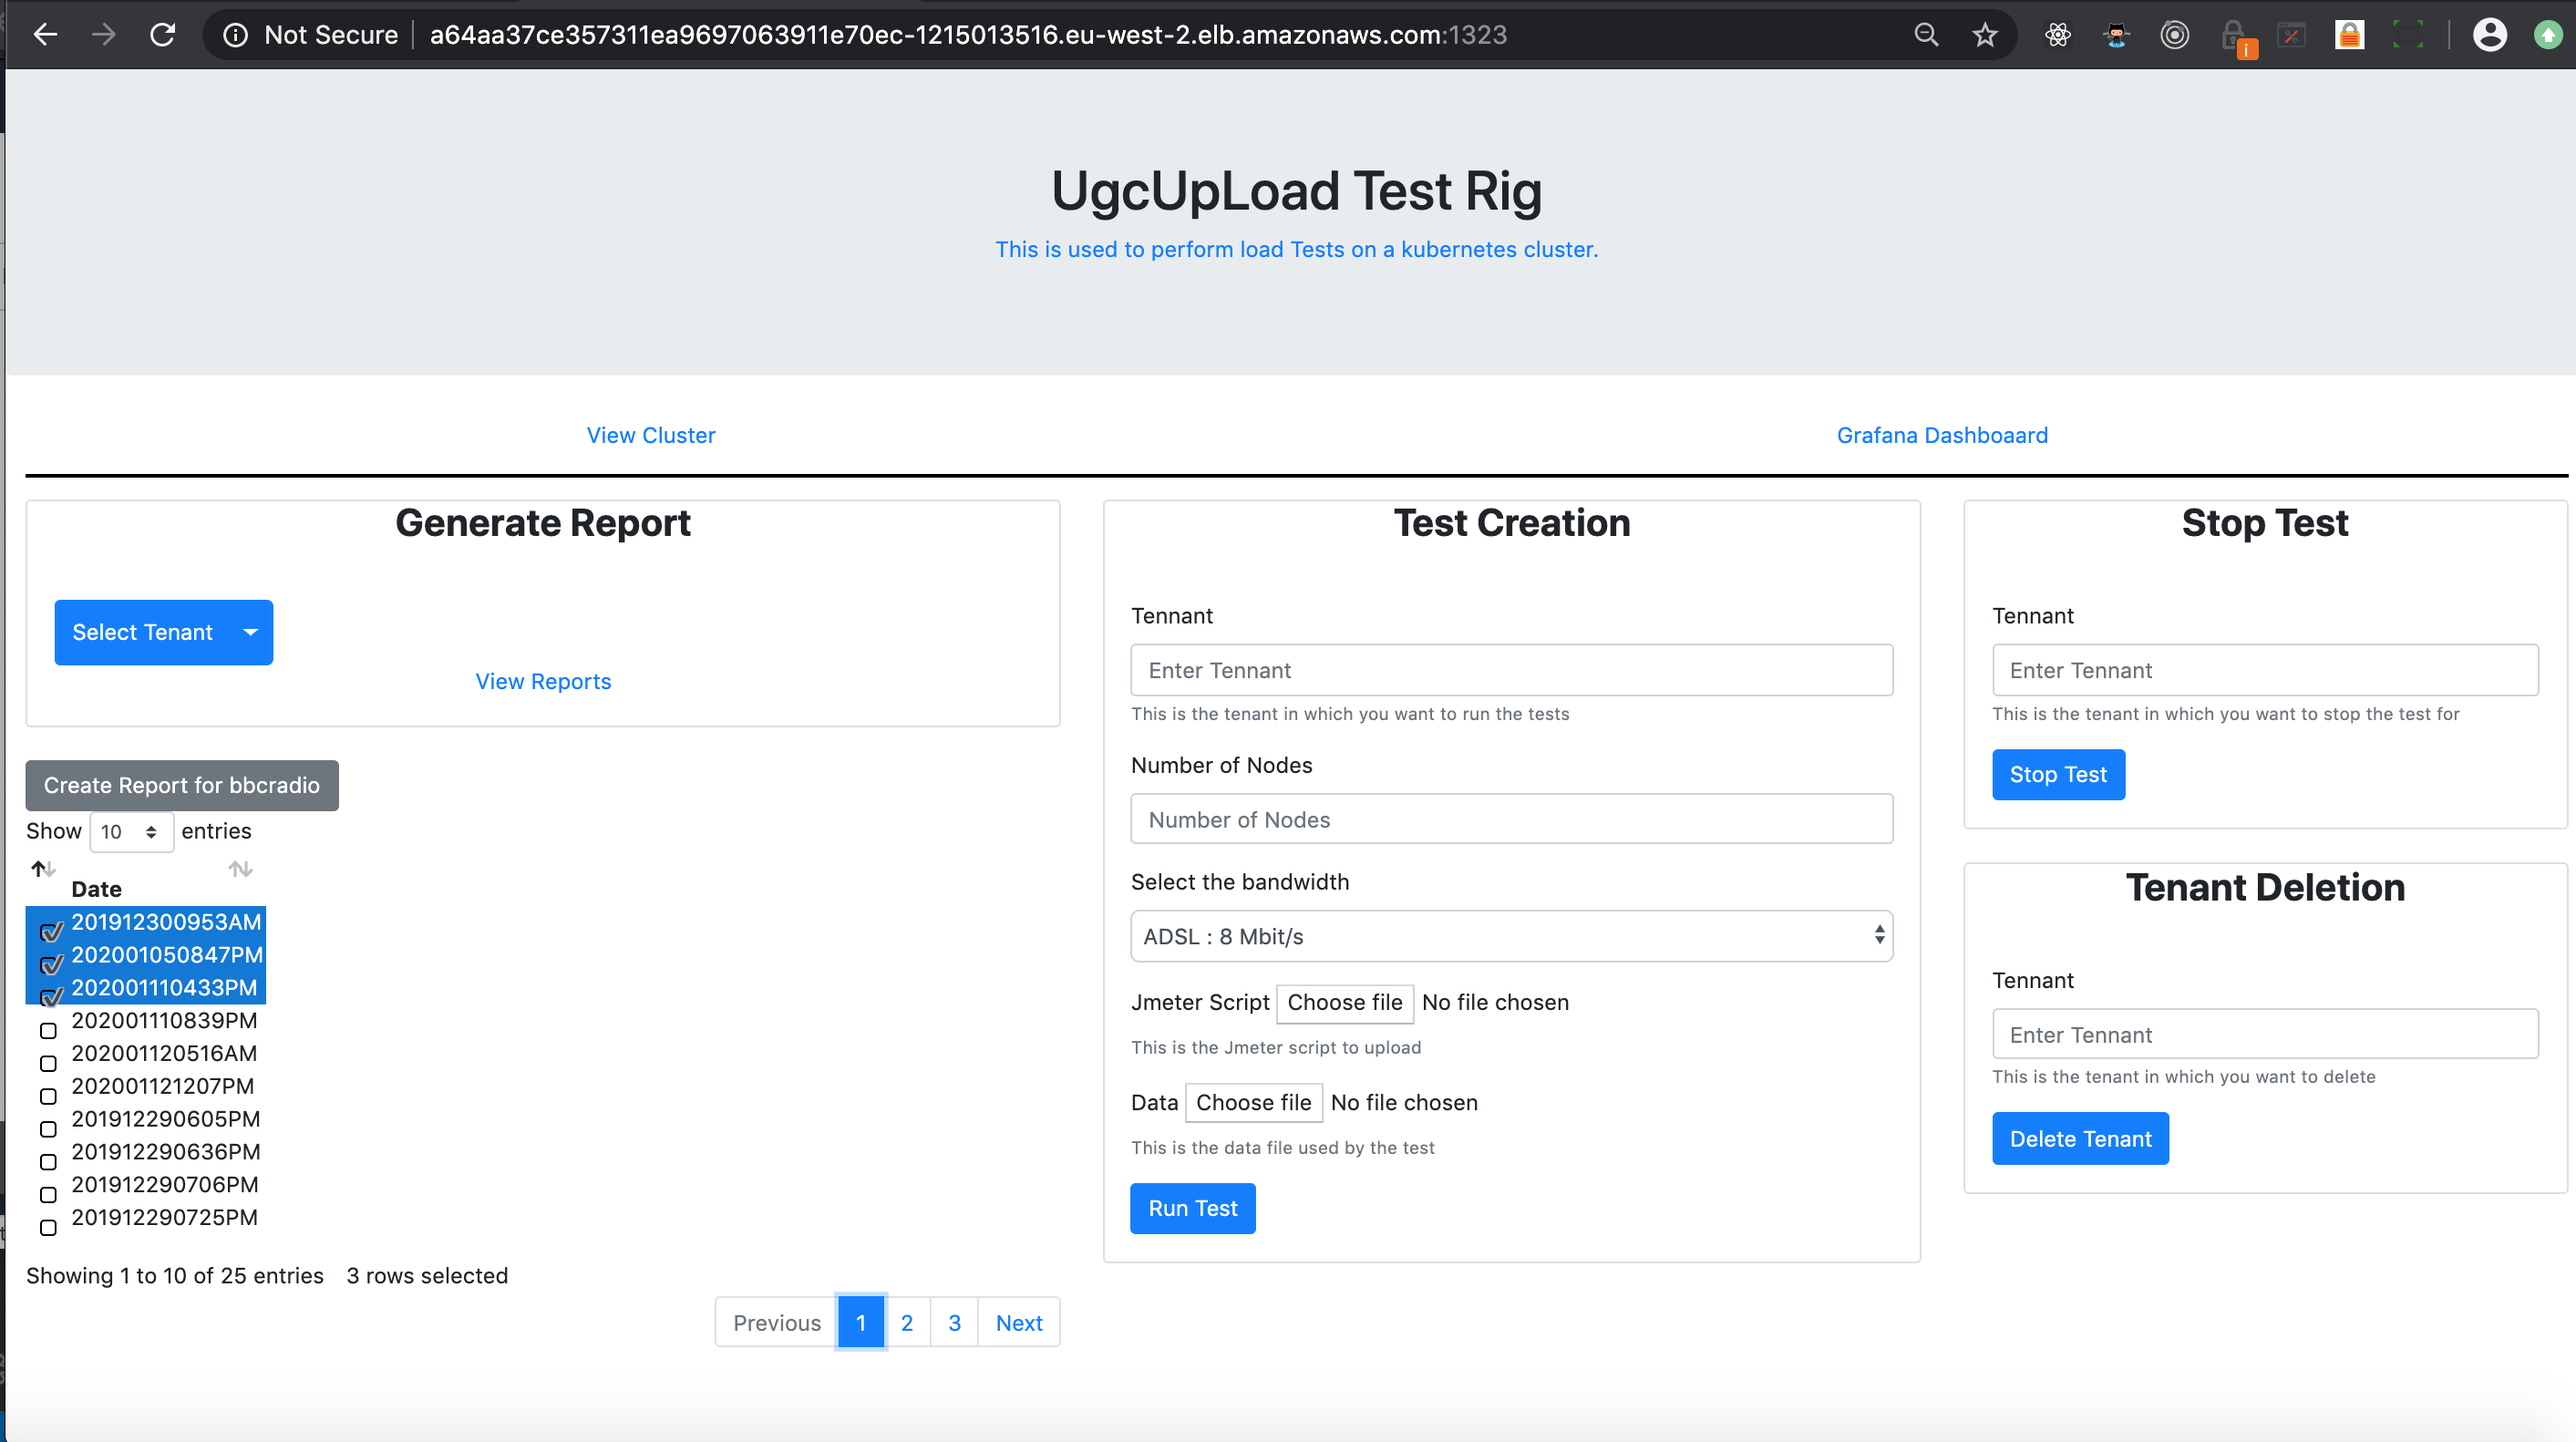
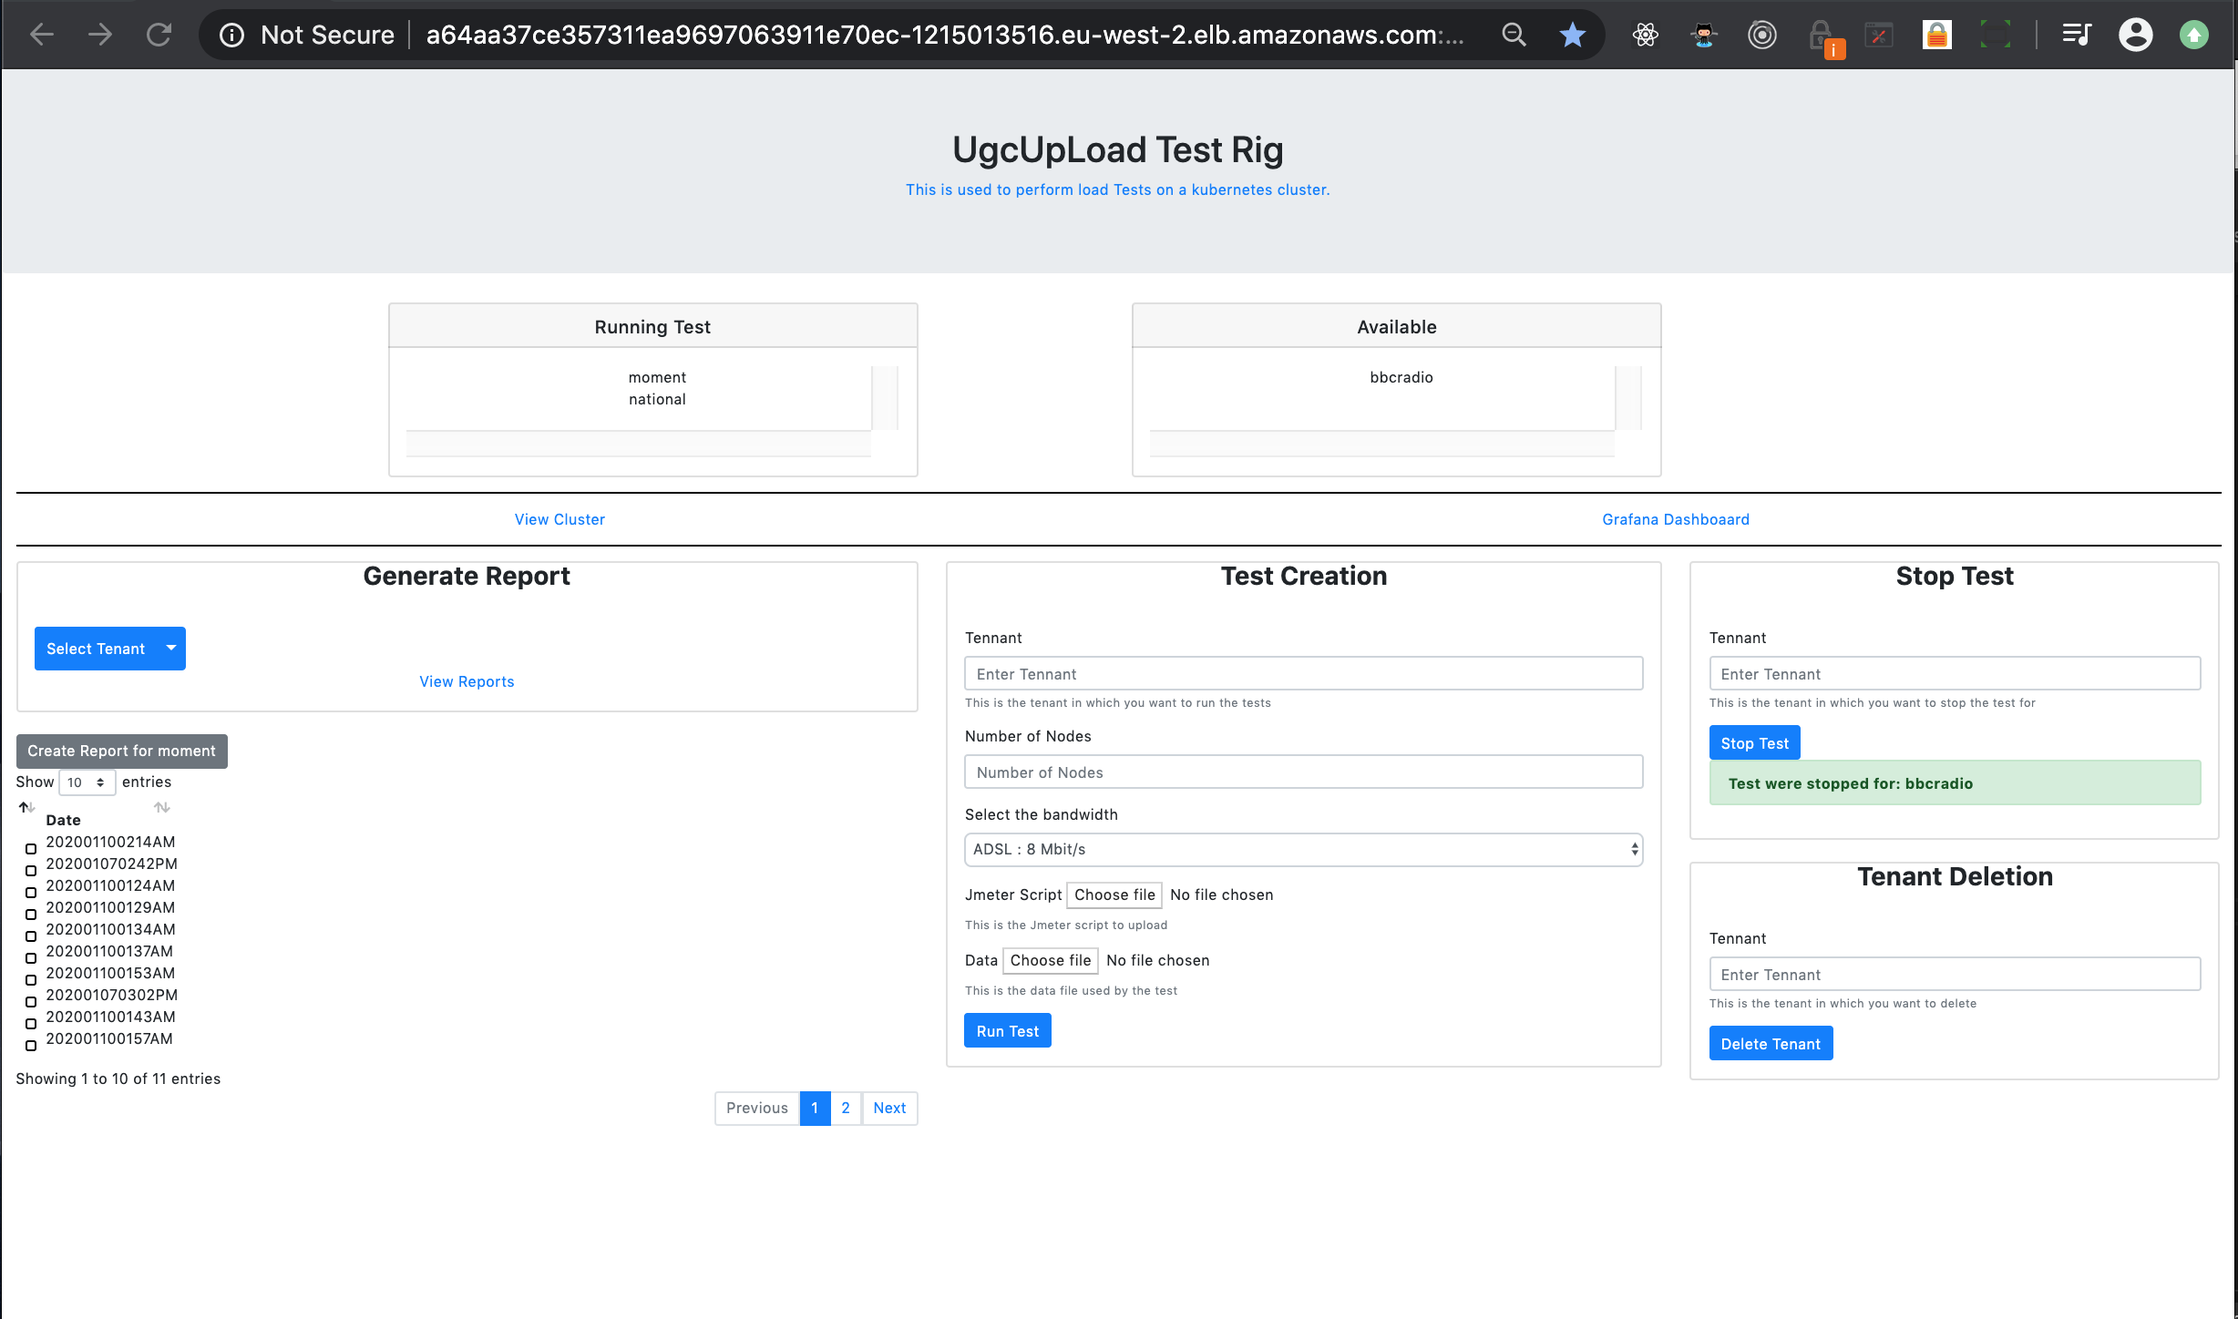
UGCUPLOAD-2001 added facility in the admin controller so that you can see what test are running

diff --git a/admin/web/index.html b/admin/web/index.html
@@ -9,7 +9,8 @@
     <!-- Bootstrap CSS -->
     <link rel="stylesheet" href="https://stackpath.bootstrapcdn.com/bootstrap/4.4.1/css/bootstrap.min.css"
         integrity="sha384-Vkoo8x4CGsO3+Hhxv8T/Q5PaXtkKtu6ug5TOeNV6gBiFeWPGFN9MuhOf23Q9Ifjh" crossorigin="anonymous">
-    <link rel="stylesheet" type="text/css" href="https://cdn.datatables.net/v/bs4/dt-1.10.20/b-1.6.1/b-colvis-1.6.1/r-2.2.3/rr-1.2.6/sc-2.0.1/sl-1.3.1/datatables.min.css"/>
+    <link rel="stylesheet" type="text/css"
+        href="https://cdn.datatables.net/v/bs4/dt-1.10.20/b-1.6.1/b-colvis-1.6.1/r-2.2.3/rr-1.2.6/sc-2.0.1/sl-1.3.1/datatables.min.css" />
 
 
 
@@ -24,6 +25,33 @@
     </div>
 
     <div class="container-fluid">
+        <div class="row">
+            <div class="col-md-2 text-center">&nbsp;
+            </div>
+            <div class="col-md-3 text-center">
+                <div class="card">
+                    <h5 class="card-header">Running Test</h5>
+                    <div class="card-body">
+                        <div  class="text-center" style="overflow: scroll; height: 100px;" id="running"></div>
+                    </div>
+                </div>
+            </div>
+            <div class="col-md-1 text-center">&nbsp;
+            </div>
+            <div class="col-md-3 text-center">
+                <div class="card">
+                    <h5 class="card-header">Available</h5>
+                    <div class="card-body">
+                        <div class="text-center"  style="overflow: scroll; height: 100px;" id="available"></div>
+                    </div>
+                </div>
+            </div>
+        </div>
+        <div class="row">
+            <div class="col-md-12">
+                <hr style="width: 100%; color: black; height: 1px; background-color:black;" />
+            </div>
+        </div>
         <div class="row">
             <div class="col-md-6 text-center">
                 <div class="panel panel-default">
@@ -101,7 +129,8 @@
                                     <input type="text" class="form-control" name="context" id="context"
                                         aria-describedby="tenantHelp" {{if .Context}} value={{ .Context }} {{ end}}
                                         placeholder="Enter Tennant">
-                                    <small id="tenantHelp" class="form-text text-muted">This is the tenant in which you
+                                    <small id="tenantHelp" class="form-text text-muted">This is the tenant in which
+                                        you
                                         want to run
                                         the tests</small>
                                 </div>
@@ -138,7 +167,8 @@
                                         <option value="fastEthernet">Fast Ethernet : 100 Mbit/s</option>
                                         <option value="gigabitEthernet">Gigabit Ethernet : 1 Gbit/s</option>
                                         <option value="10gigabitEthernet">10 Gigabit Ethernet : 10 Gbit/s</option>
-                                        <option value="100gigabitEthernet">100 Gigabit Ethernet : 100 Gbit/s</option>
+                                        <option value="100gigabitEthernet">100 Gigabit Ethernet : 100 Gbit/s
+                                        </option>
                                         <option value="mobileDataEdge">Mobile data EDGE : 384 kbit/s</option>
                                         <option value="mobileDataHspa">Mobile data HSPA : 14,4 Mbp/s</option>
                                         <option value="mobileDatacHspaPlus">Mobile data HSPA+ : 21 Mbp/s</option>
@@ -166,7 +196,8 @@
                                     <label for="data-file-upload">Data</label>
                                     <input name="data" id="data-file-upload" type="file" class="file-upload"
                                         aria-describedby="jmeterHelp" />
-                                    <small id="jmeterHelp" class="form-text text-muted">This is the data file used by
+                                    <small id="jmeterHelp" class="form-text text-muted">This is the data file used
+                                        by
                                         the test</small>
                                 </div>
                                 {{if .GenericCreateTestMsg}}
@@ -200,7 +231,8 @@
                                     <label for="context">Tennant</label>
                                     <input type="text" class="form-control" name="stopcontext" id="stopcontext"
                                         aria-describedby="tenantHelp" placeholder="Enter Tennant">
-                                    <small id="tenantHelp" class="form-text text-muted">This is the tenant in which you
+                                    <small id="tenantHelp" class="form-text text-muted">This is the tenant in which
+                                        you
                                         want to stop
                                         the test for </small>
                                 </div>
@@ -242,7 +274,8 @@
                                     <label for="context">Tennant</label>
                                     <input type="text" class="form-control" name="TenantContext" id="TenantContext"
                                         aria-describedby="tenantHelp" placeholder="Enter Tennant">
-                                    <small id="tenantHelp" class="form-text text-muted">This is the tenant in which you
+                                    <small id="tenantHelp" class="form-text text-muted">This is the tenant in which
+                                        you
                                         want to
                                         delete</small>
                                 </div>
@@ -278,14 +311,15 @@
     <!-- Optional JavaScript -->
     <!-- jQuery first, then Popper.js, then Bootstrap JS -->
     <script src="https://code.jquery.com/jquery-3.4.1.js"></script>
-    <script type="text/javascript" src="https://cdn.datatables.net/v/bs4/dt-1.10.20/b-1.6.1/b-colvis-1.6.1/r-2.2.3/rr-1.2.6/sc-2.0.1/sl-1.3.1/datatables.min.js"></script>
+    <script type="text/javascript"
+        src="https://cdn.datatables.net/v/bs4/dt-1.10.20/b-1.6.1/b-colvis-1.6.1/r-2.2.3/rr-1.2.6/sc-2.0.1/sl-1.3.1/datatables.min.js"></script>
     <script src="https://cdnjs.cloudflare.com/ajax/libs/popper.js/1.12.9/umd/popper.min.js"
         integrity="sha384-ApNbgh9B+Y1QKtv3Rn7W3mgPxhU9K/ScQsAP7hUibX39j7fakFPskvXusvfa0b4Q"
         crossorigin="anonymous"></script>
     <script src="https://maxcdn.bootstrapcdn.com/bootstrap/4.0.0/js/bootstrap.min.js"
         integrity="sha384-JZR6Spejh4U02d8jOt6vLEHfe/JQGiRRSQQxSfFWpi1MquVdAyjUar5+76PVCmYl"
         crossorigin="anonymous"></script>
-    <script src="/script/js/upload.js"></script>
+    <script src="/script/js/upload.js?v=6"></script>
 </body>
 
 </html>

diff --git a/admin/web/js/upload.js b/admin/web/js/upload.js
@@ -108,4 +108,33 @@ $(document).ready(function () {
         $("#deleteTenantBtn").prop("disabled", true)
     });
 
+
+    (function worker() {
+        $.ajax({
+          dataType: "json",
+          url: '/tenants', 
+          success: function(data) {
+
+            var running = '<ul style="list-style-type:none;">';
+            var available = '<ul style="list-style-type:none;">';
+            $.each(data, function(index, item) {
+                if (item.Running) {
+                    running = running.concat("<li>",item.Namespace,"</li>")
+                } else {
+                    available = available.concat("<li>",item.Namespace,"</li>")
+                }
+            });
+
+            running = running.concat("</ul>")
+            available = available.concat("</ul>")
+            $('#running').html(running);
+            $('#available').html(available);
+          },
+          complete: function() {
+            // Schedule the next request when the current one's complete
+            setTimeout(worker, 5000);
+          }
+        });
+      })();
+
 });

diff --git a/admin/internal/pkg/kubernetes/client.go b/admin/internal/pkg/kubernetes/client.go
@@ -21,6 +21,7 @@ import (
 	corev1 "k8s.io/api/core/v1"
 	v1 "k8s.io/api/core/v1"
 	metav1 "k8s.io/apimachinery/pkg/apis/meta/v1"
+	"k8s.io/apimachinery/pkg/labels"
 	intstr "k8s.io/apimachinery/pkg/util/intstr"
 	"k8s.io/client-go/kubernetes"
 	"k8s.io/client-go/rest"
@@ -137,6 +138,33 @@ func (kop *Operations) CreateNamespace(ns string) (created bool, err string) {
 		err = fmt.Sprintf("%w", e.Error())
 	} else {
 		created = true
+	}
+	return
+}
+
+//Tenant Information about the tenant
+type Tenant struct {
+	Name      string
+	Namespace string
+	Running   bool
+}
+
+//GetallTenants Retuns a list of tenants
+func (kop *Operations) GetallTenants() (ts []Tenant, err string) {
+	tenants := []Tenant{}
+	labelSelector := metav1.LabelSelector{MatchLabels: map[string]string{"jmeter_mode": "master"}}
+	actual := metav1.ListOptions{LabelSelector: labels.Set(labelSelector.MatchLabels).String()}
+	res, e := kop.ClientSet.CoreV1().Pods("").List(actual)
+	if e != nil {
+		log.WithFields(log.Fields{
+			"err": e.Error(),
+		}).Error("Problems getting all namespaces")
+		err = e.Error()
+	} else {
+		for _, item := range res.Items {
+			tenants = append(tenants, Tenant{Name: item.Name, Namespace: item.Namespace})
+		}
+		ts = tenants
 	}
 	return
 }
@@ -294,7 +322,6 @@ func (kop *Operations) CreateJmeterMasterDeployment(namespace string, awsAcntNbr
 	}
 
 	// Create Deployment
-	fmt.Println("Creating deployment...")
 	result, e := deploymentsClient.Create(deployment)
 	if err != "" {
 		log.WithFields(log.Fields{
@@ -353,10 +380,6 @@ func (kop *Operations) LoadBalancerIP(namespace string) (host string) {
 	} else {
 		for _, svc := range list.Items {
 			for _, ingress := range svc.Status.LoadBalancer.Ingress {
-				log.WithFields(log.Fields{
-					"host":      ingress.Hostname,
-					"namespace": namespace,
-				}).Info("Found host")
 				host = ingress.Hostname
 			}
 		}
@@ -432,6 +455,22 @@ func (kop Operations) GenerateReport(data string) (created bool, err string) {
 	return
 }
 
+//CheckIfRunningJava Used to check if the pod has java running
+func (kop Operations) CheckIfRunningJava(ns string, pod string) (resp string, err string) {
+	cmd := fmt.Sprintf("%s/%s", props.MustGet("tscripts"), "check-if-jmeter-running.sh")
+	args := []string{ns, pod}
+	resp, err = kop.executeCommand(cmd, args)
+	if err != "" {
+		log.WithFields(log.Fields{
+			"err":       err,
+			"namespace": ns,
+			"pod":       pod,
+		}).Errorf("failed checking if java is running on the pod")
+	}
+	return
+
+}
+
 //CreateServiceaccount create service account
 func (kop Operations) CreateServiceaccount(ns string, policyarn string) (created bool, err string) {
 
@@ -441,7 +480,7 @@ func (kop Operations) CreateServiceaccount(ns string, policyarn string) (created
 	if err != "" {
 		log.WithFields(log.Fields{
 			"err": err,
-		}).Errorf("unabme able to create the service account in workspace: %v", ns)
+		}).Errorf("unable to create the service account in workspace: %v", ns)
 		created = false
 	} else {
 		created = true

diff --git a/admin/cmd/ugcupload/main.go b/admin/cmd/ugcupload/main.go
@@ -1,6 +1,7 @@
 package main
 
 import (
+	"encoding/json"
 	"fmt"
 	"io"
 	"net"
@@ -112,6 +113,29 @@ func addTenants(ur *UgcLoadRequest) {
 	ur.TenantList, _ = s3Ops.GetBucketItems("ugcupload-jmeter", "", 0)
 }
 
+func allTenants(c echo.Context) error {
+	kubctlOps.RegisterClient()
+	t, e := kubctlOps.GetallTenants()
+
+	if e != "" {
+		return c.String(http.StatusBadRequest, "Unable to fetch tenants")
+	}
+
+	nt := []kubernetes.Tenant{}
+
+	for _, tenant := range t {
+		r, e := kubctlOps.CheckIfRunningJava(tenant.Namespace, tenant.Name)
+		if len(e) > 0 || len(r) < 1 {
+			tenant.Running = false
+		} else {
+			tenant.Running = true
+		}
+		nt = append(nt, tenant)
+	}
+	r, _ := json.Marshal(nt)
+	return c.String(http.StatusOK, string(r))
+}
+
 func generateReport(c echo.Context) error {
 
 	tenant := c.FormValue("tenant")
@@ -121,11 +145,6 @@ func generateReport(c echo.Context) error {
 	for _, d := range strings.Split(data, ",") {
 		items = append(items, fmt.Sprintf("%s=%s", tenant, d))
 	}
-	log.WithFields(log.Fields{
-		"tenant": tenant,
-		"data":   data,
-		"items":  items,
-	}).Info("Generate Report")
 	kubctlOps.RegisterClient()
 	_, e := kubctlOps.GenerateReport(strings.Join(items[:], ","))
 	return c.String(http.StatusOK, e)
@@ -283,6 +302,8 @@ func upload(c echo.Context) error {
 		return c.Render(http.StatusBadRequest, "index.html", ugcLoadRequest)
 	}
 
+	fop.ProcessData()
+
 	nsExist := kubctlOps.CheckNamespaces(ugcLoadRequest.Context)
 	if nsExist == false {
 		clusterops := cluster.Operations{}
@@ -408,6 +429,7 @@ func main() {
 	e.POST("/delete-tenant", deleteTenant)
 	e.GET("/tenantReport", s3Tenants)
 	e.POST("/genReport", generateReport)
+	e.GET("/tenants", allTenants)
 
 	s := &http.Server{
 		Addr:         ":1323",

diff --git a/Readme.md b/Readme.md
@@ -1,4 +1,4 @@
-# Distributed Jmeter Test Rig Using Kubernetes
+#   Distributed Jmeter Test Rig Using Kubernetes
 
 
 
